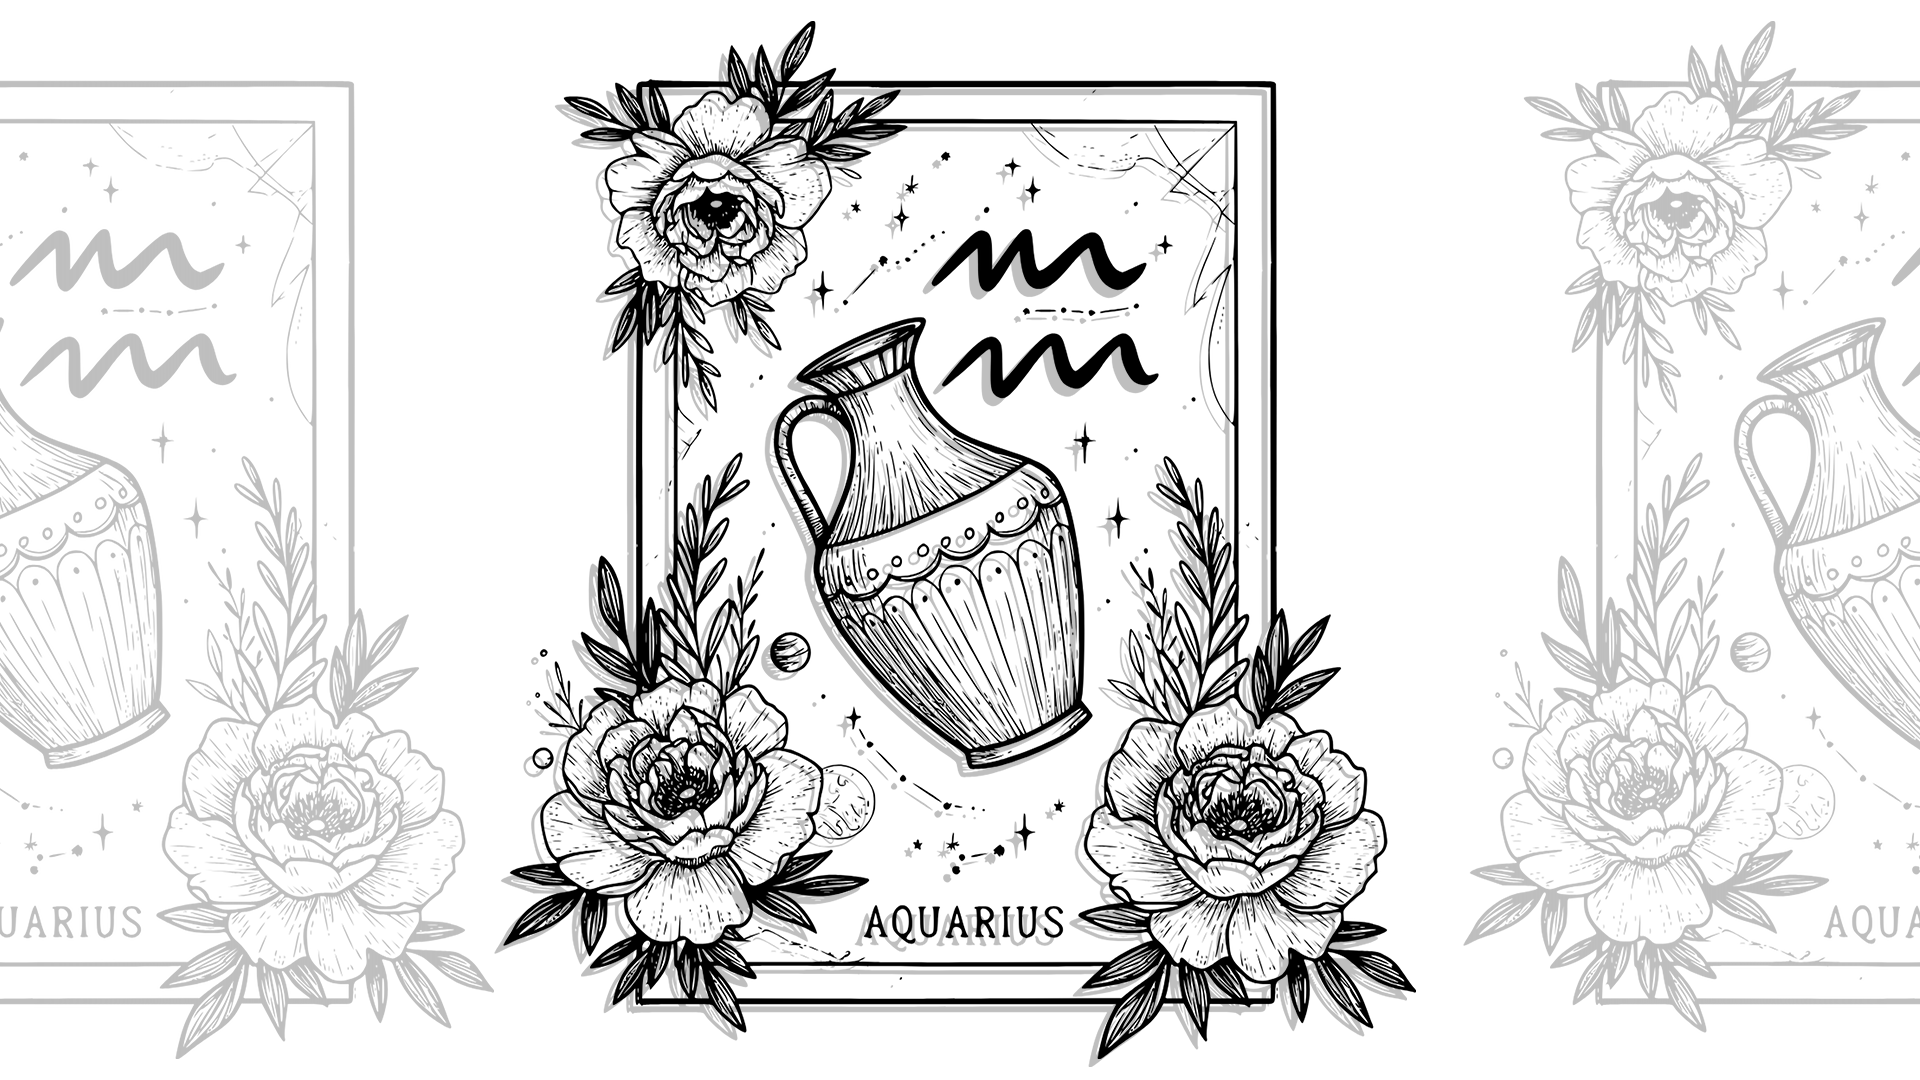
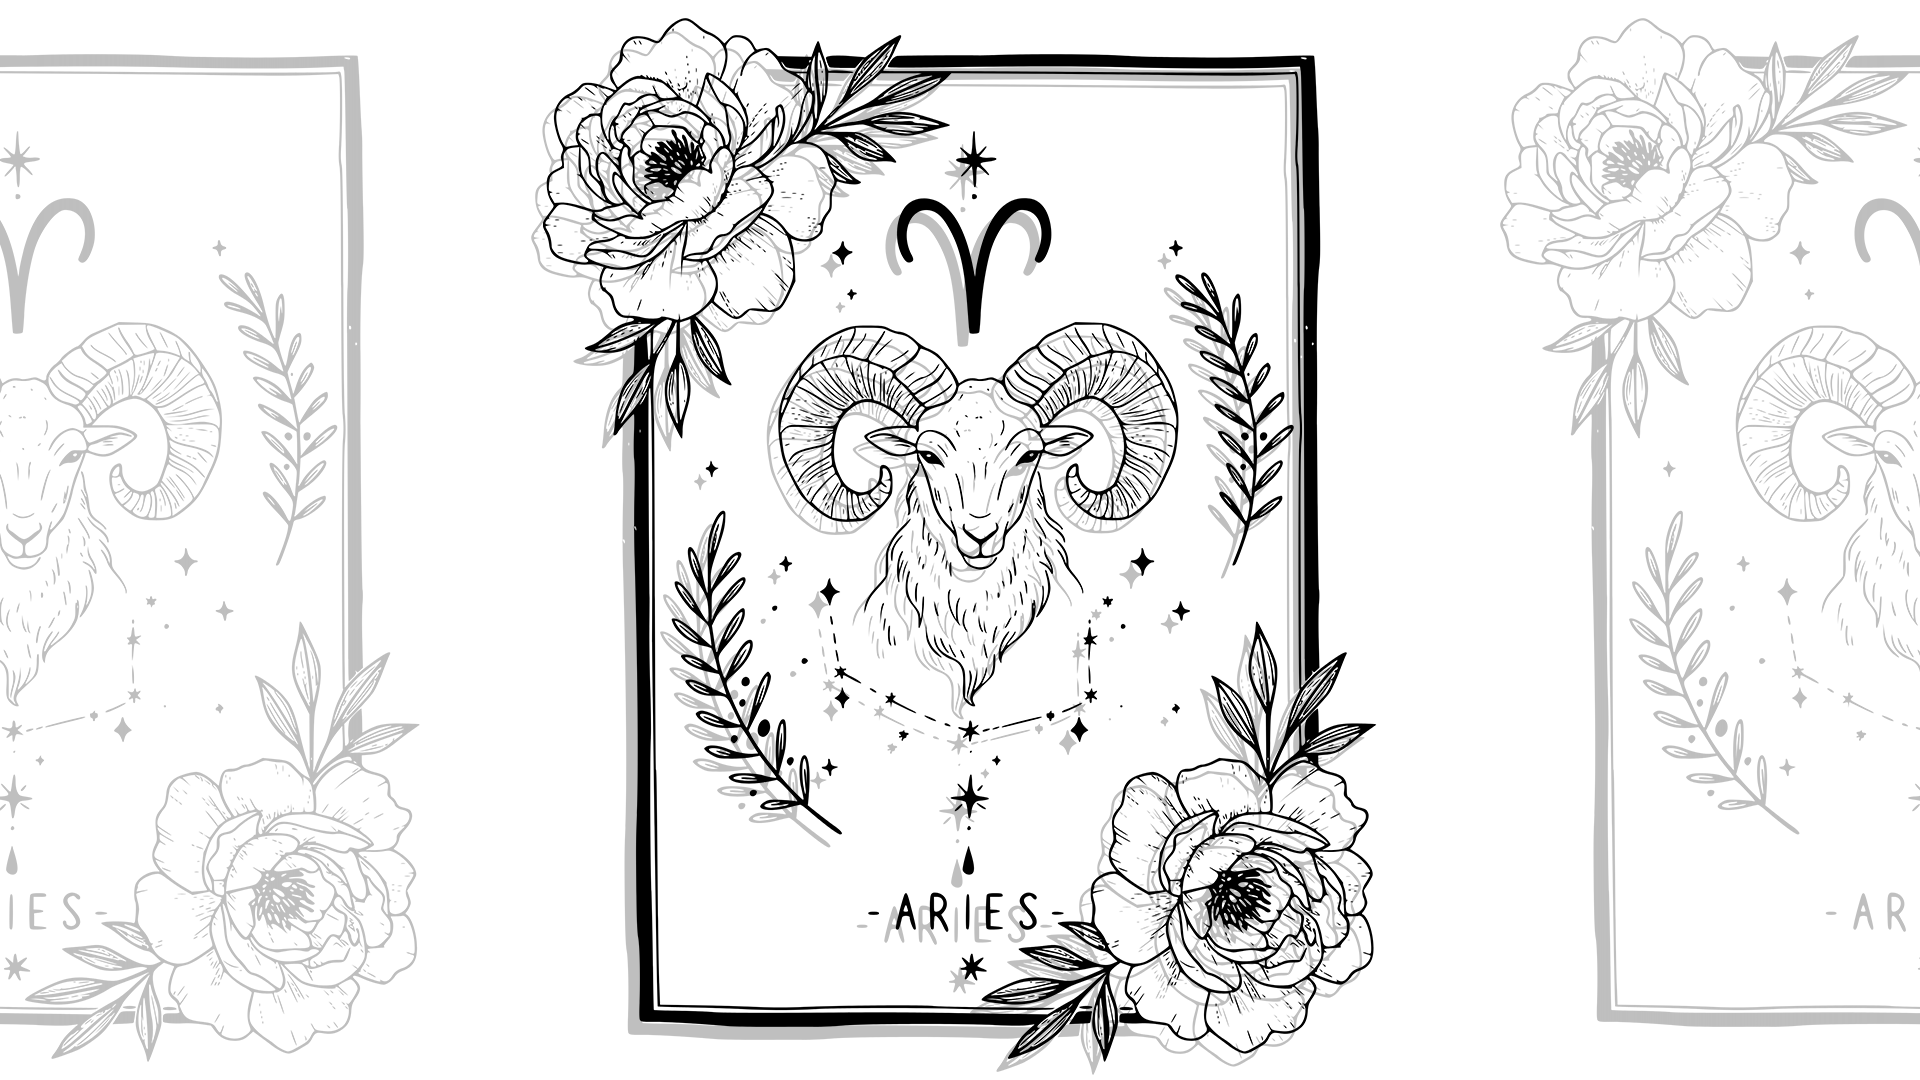
scraping webpage, and properly sending embeds

diff --git a/src/necro-hollow/sunday-horoscope/handler.js b/src/necro-hollow/sunday-horoscope/handler.js
@@ -1,74 +1,10 @@
-import { getHoroscopes } from './horoscope.js';
+import { scrapeHoroscope } from './horoscope.js';
 import { buildAndSendEmbeds } from './embed-builder.js';
 
 export const readyHandler = async (readyClient) => {
     console.log(`Ready! Logged in as ${readyClient.user.tag}`);
 
-    // const result = await getHoroscopes();
-
-    // TODO: keep this around for testing purposes
-    const result = [
-        {
-            date: '2026-04-26',
-            sign: 'Aries',
-            horoscope: "Today, Aries, you might encounter an unusual individual claiming to possess mind-reading abilities. However, don't be fooled; this person is likely more confused than insightful. It's wise to approach their forecasts with skepticism—better yet, keep a healthy distance from them. The likelihood is that their predictions are far from accurate. Rely on your own instincts instead; your intuition is much more reliable than the musings of this self-proclaimed psychic."
-        },
-        // {
-        //     date: '2026-04-26',
-        //     sign: 'Taurus',
-        //     horoscope: "At this moment, Taurus, your financial aspirations may feel a bit unclear and ambiguous. You might find yourself at a pivotal point regarding your income, unsure of the best path to take. Alternatively, if you're considering making some purchases, you may struggle to prioritize what's truly essential. Today isn't the best time to make any financial decisions; it's wise to hold off for a day or two."
-        // },
-        // {
-        //     date: '2026-04-26',
-        //     sign: 'Gemini',
-        //     horoscope: "Today, Gemini, you might find yourself questioning the intentions of a coworker. Their agenda appears to be self-serving, potentially disregarding the feelings and needs of others who might obstruct their path. It's wise to be cautious and not overlook any red flags in their behavior. The most prudent approach is to keep your distance and prioritize your own well-being."
-        // },
-        // {
-        //     date: '2026-04-26',
-        //     sign: 'Cancer',
-        //     horoscope: "Today, Cancer, you might find yourself questioning some spiritual beliefs that you've held dear for quite a while. Don't let this uncertainty lead to a crisis; it's likely just a natural phase of your personal development. Take some time to revisit the classic texts that initially inspired you, and explore some new literature as well. By examining these ideas through the lens of your current understanding, you may discover that your doubts are not as significant as they seem."
-        // },
-        // {
-        //     date: '2026-04-26',
-        //     sign: 'Leo',
-        //     horoscope: "You might find yourself grappling with unsettling dreams that raise questions about a friend’s intentions, Leo. Their recent odd behavior could leave you pondering the stability of your friendship. Take a moment to reflect on the symbols within your dreams; they could be revealing insights about either you, your friend, or perhaps both. It's worth considering!"
-        // },
-        // {
-        //     date: '2026-04-26',
-        //     sign: 'Virgo',
-        //     horoscope: 'Virgo, you may find yourself amidst some sneaky and questionable activities at your job. This could leave you feeling upset and anxious about your position. It might also prompt you to reflect on whether this is the right environment for you. These internal struggles are a signal for you to confront the situation head-on and clarify your true aspirations. Once you have that clarity, take decisive action towards your goals.'
-        // },
-        // {
-        //     date: '2026-04-26',
-        //     sign: 'Libra',
-        //     horoscope: "Libra, today you may find yourself feeling a bit off-kilter, and your ability to concentrate might wane. You could struggle to stay focused on your tasks. There's no need to fret; this is more of a mental phase that will soon fade. You might be tempted to rely on coffee throughout the day to keep your energy up. However, it’s wise to practice moderation, as too much caffeine could backfire. Just hang in there!"
-        // },
-        // {
-        //     date: '2026-04-26',
-        //     sign: 'Scorpio',
-        //     horoscope: "Today, Scorpio, you may find yourself grappling with doubts and insecurities in your romantic life. Are you and your partner on the same wavelength? Can you trust your friend's sincerity? What lies ahead for this relationship? The key to overcoming this emotional turbulence is to proceed gradually, carefully assessing the outcomes of each move you make. By doing so, you'll be able to clarify your uncertainties and find the answers you seek."
-        // },
-        // {
-        //     date: '2026-04-26',
-        //     sign: 'Sagittarius',
-        //     horoscope: "Someone in your home may be facing challenges, Sagittarius, leading them to rely heavily on your emotional and moral backing. While it's nice to be needed, this could also take a toll on your own energy. Take a moment to reflect on what you truly want to communicate to your friend. At times, delivering a dose of honesty—figuratively speaking—can be the wake-up call they need."
-        // },
-        // {
-        //     date: '2026-04-26',
-        //     sign: 'Capricorn',
-        //     horoscope: "Today, Capricorn, you might encounter some outrageous rumors that are far from the truth. Upon reflection, you'll realize how illogical and absurd they truly are. Yet, the individual sharing this information may be so charismatic and convincing that you could find yourself momentarily swayed. It's essential to verify the facts in these instances. By doing so, you'll remain anchored in reality and avoid getting swept away by fanciful tales."
-        // },
-        {
-            date: '2026-04-26',
-            sign: 'Aquarius',
-            horoscope: 'Aquarius, today you might find yourself drawn to tackle your financial matters—settling bills, making deposits, and mapping out next month’s budget. However, your enthusiasm may be lacking. Your thoughts are likely wandering towards more captivating endeavors. Pushing yourself to focus on finances could lead to frustration and distraction, making it feel like a futile effort. Consider holding off for a few days; you’ll likely feel more grounded and ready to handle these tasks then.'
-        },
-        // {
-        //     date: '2026-04-26',
-        //     sign: 'Pisces',
-        //     horoscope: 'Typically, Pisces, you possess strong focus and concentration skills. However, today you may notice a dip in these abilities. You might struggle with your tasks and find yourself reflecting on past disappointments. It could be beneficial to pause and explore why these memories are surfacing at this time. Letting go of them could help restore your concentration to its usual level.'
-        // },
-    ];
+    const result = await scrapeHoroscope();
 
     await buildAndSendEmbeds(readyClient, result);
 

diff --git a/src/necro-hollow/sunday-horoscope/horoscope.js b/src/necro-hollow/sunday-horoscope/horoscope.js
@@ -1,12 +1,33 @@
-export const getHoroscopes = async () => {
-    const dailyHoroscopeRequets = [];
-    const signs = ['aries', 'taurus', 'gemini', 'cancer', 'leo', 'virgo', 'libra', 'scorpio', 'sagittarius', 'capricorn', 'aquarius', 'pisces'];
+import * as cheerio from 'cheerio';
+import { necroHollowZodiacChannelMap } from './data.js';
 
-    for (const sign of signs) {
-        const url = `https://api.api-ninjas.com/v1/horoscope?zodiac=${sign}`;
+export const scrapeHoroscope = async () => {
+    const dailyHoroscopes = [];
 
-        dailyHoroscopeRequets.push((await fetch(url)).json());
+    for (const sign of Object.keys(necroHollowZodiacChannelMap)) {
+        const signData = necroHollowZodiacChannelMap[sign];
+        const url = `https://www.horoscope.com/us/horoscopes/general/horoscope-general-daily-today.aspx?sign=${signData.queryParamNumber}`;
+        const html = await (await fetch(url)).text();
+
+        dailyHoroscopes.push({
+            date: new Date().toLocaleDateString(),
+            sign,
+            horoscope: parsePageContents(html),
+        });
     }
 
-    return await Promise.all(dailyHoroscopeRequets);
-}
+    return dailyHoroscopes;
+};
+
+const parsePageContents = (html) => {
+    const $ = cheerio.load(html);
+
+    // select <div class=main-horoscope><p> tags, get the first element from the DOM
+    const val = $('.main-horoscope p').first().text();
+    
+    // split by '-' to single out the date, slice the date out of the array 
+    const removedFirst = val.split('-').slice(1);
+
+    // rejoin the array (minus the date) && trim whitespace
+    return removedFirst.join('-').trim();
+};

diff --git a/src/necro-hollow/sunday-horoscope/data.js b/src/necro-hollow/sunday-horoscope/data.js
@@ -2,49 +2,61 @@ export const necroHollowZodiacChannelMap = {
     'Aries': {
         roleId: process.env.ROLE_ID_ARIES,
         channelId: process.env.CHANNEL_ID_ARIES,
+        queryParamNumber: 1,
     },
     'Taurus': {
         roleId: process.env.ROLE_ID_TAURUS,
         channelId: process.env.CHANNEL_ID_TAURUS,
+        queryParamNumber: 2,
     },
     'Gemini': {
         roleId: process.env.ROLE_ID_GEMINI,
         channelId: process.env.CHANNEL_ID_GEMINI,
+        queryParamNumber: 3,
     },
     'Cancer': {
         roleId: process.env.ROLE_ID_CANCER,
         channelId: process.env.CHANNEL_ID_CANCER,
+        queryParamNumber: 4,
     },
     'Leo': {
         roleId: process.env.ROLE_ID_LEO,
         channelId: process.env.CHANNEL_ID_LEO,
+        queryParamNumber: 5,
     },
     'Virgo': {
         roleId: process.env.ROLE_ID_VIRGO,
         channelId: process.env.CHANNEL_ID_VIRGO,
+        queryParamNumber: 6,
     },
     'Libra': {
         roleId: process.env.ROLE_ID_LIBRA,
         channelId: process.env.CHANNEL_ID_LIBRA,
+        queryParamNumber: 7,
     },
     'Scorpio': {
         roleId: process.env.ROLE_ID_SCORPIO,
         channelId: process.env.CHANNEL_ID_SCORPIO,
+        queryParamNumber: 8,
     },
     'Sagittarius': {
         roleId: process.env.ROLE_ID_SAGITTARIUS,
         channelId: process.env.CHANNEL_ID_SAGITTARIUS,
+        queryParamNumber: 9,
     },
     'Capricorn': {
         roleId: process.env.ROLE_ID_CAPRICORN,
         channelId: process.env.CHANNEL_ID_CAPRICORN,
+        queryParamNumber: 10,
     },
     'Aquarius': {
         roleId: process.env.ROLE_ID_AQUARIUS,
         channelId: process.env.CHANNEL_ID_AQUARIUS,
+        queryParamNumber: 11,
     },
     'Pisces': {
         roleId: process.env.ROLE_ID_PISCES,
         channelId: process.env.CHANNEL_ID_PISCES,
+        queryParamNumber: 12,
     },
 };

diff --git a/src/necro-hollow/sunday-horoscope/index.js b/src/necro-hollow/sunday-horoscope/index.js
@@ -2,7 +2,6 @@ import { loginWithDiscord } from '../../discord-client.js';
 import { readyHandler } from './handler.js';
 
 const run = async () => {
-    // using https://api-ninjas.com/api/horoscope for daily horoscopes
     loginWithDiscord(process.env.DISCORD_TOKEN_NECRO, readyHandler);
 };
 